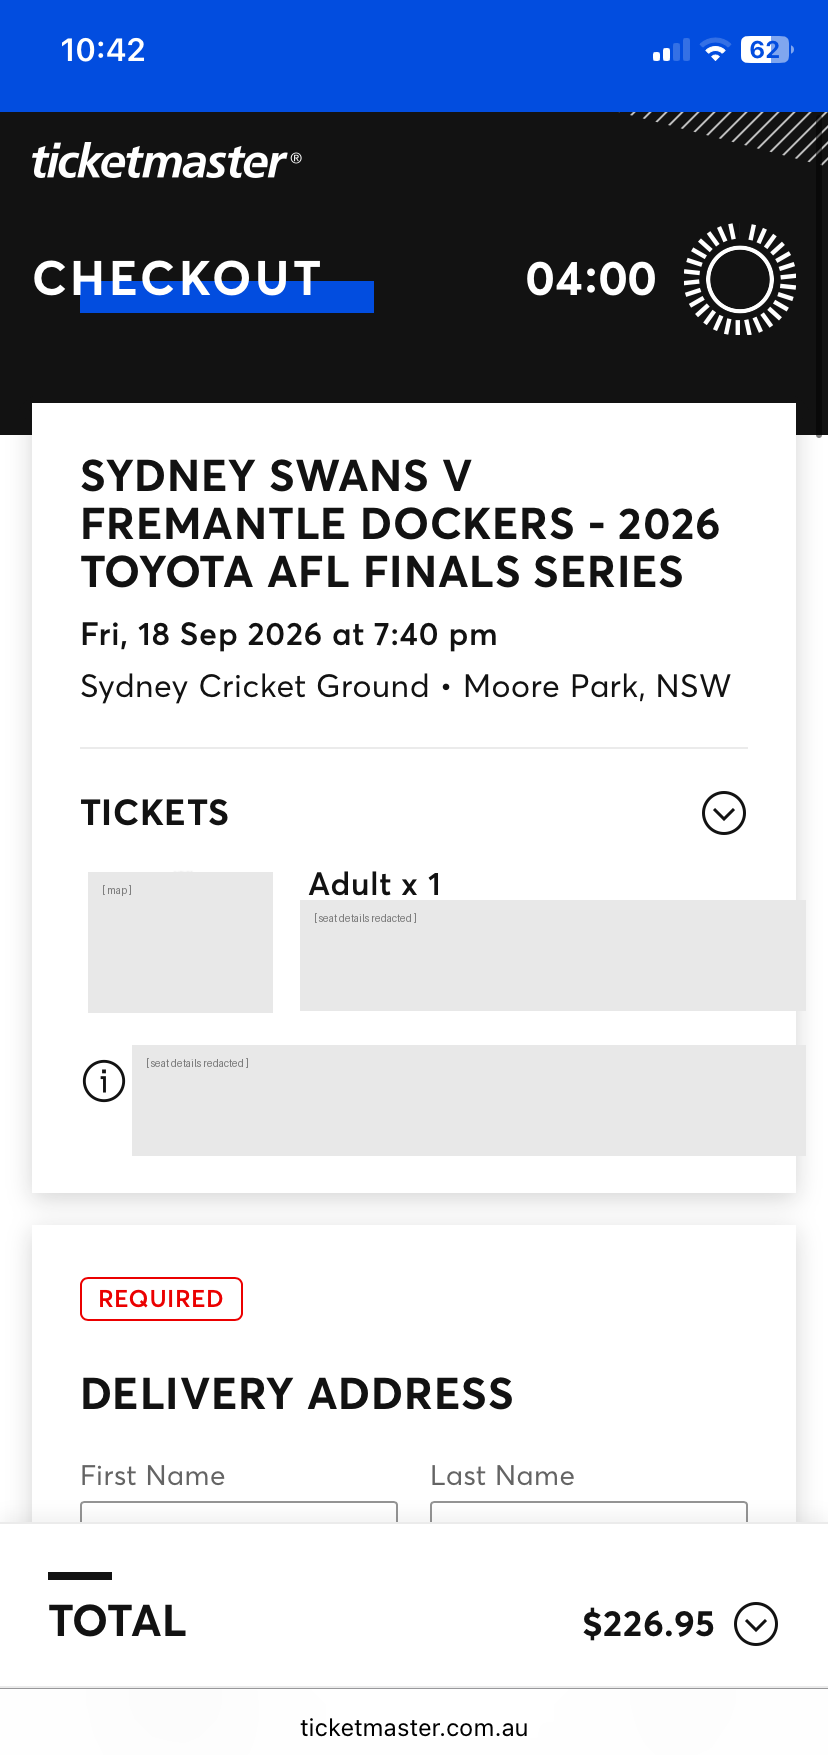
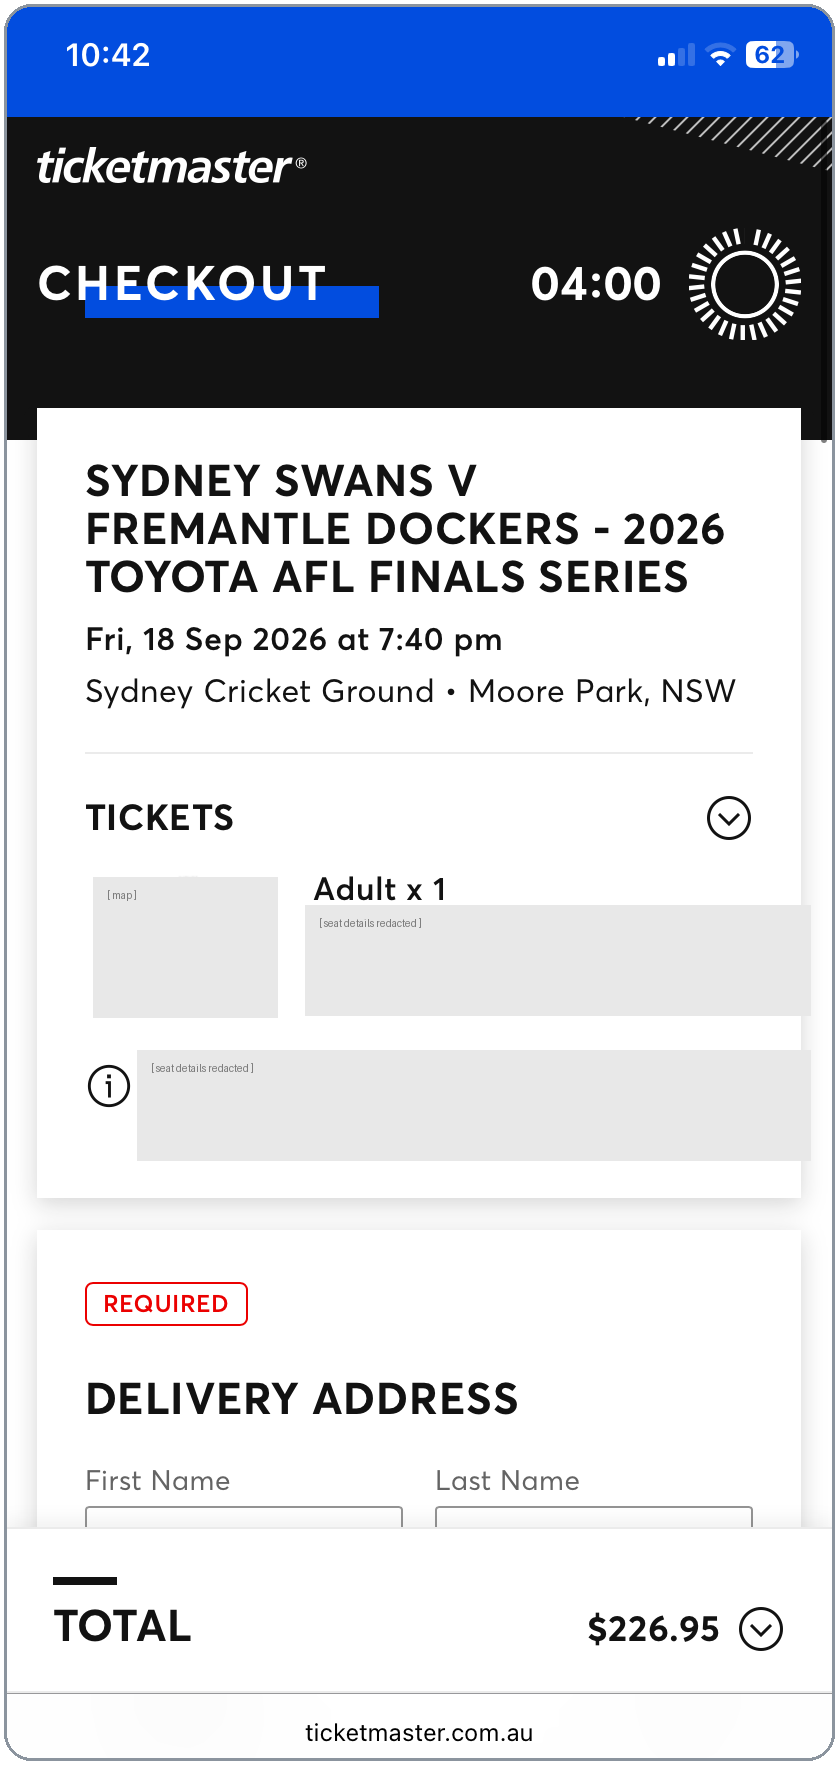
Scale down and outline the proof screenshot
300px and centred instead of full-width portrait, with a rounded mid-grey
border baked into the PNG. GitHub strips style attributes so a CSS border
would not survive, and mid-grey reads on both light and dark themes.

Also 'blurred' -> 'redacted': the seat details are opaque fills, not a
reversible blur.

Claude-Session: https://claude.ai/code/session_01FCaW4KjunZgREack9fMfgj

diff --git a/README.md b/README.md
@@ -48,13 +48,16 @@ all of them.
 
 ## Proof it works
 
-![Ticketmaster checkout showing one Adult ticket secured, seat details redacted](docs/proof.png)
+<p align="center">
+  <img src="docs/proof.png" width="300"
+       alt="Ticketmaster checkout showing one Adult ticket secured for $226.95, seat details redacted">
+</p>
 
 Checkout at 10:42, two days after the event sold out. One seat, bought by hand,
 off an alert from this monitor — during the `[10:38:09] → [10:42:23]` window in
 the table above.
 
-*(Seat identifiers blurred.)* 
+*(Seat identifiers redacted.)* 
 
 ---
 
